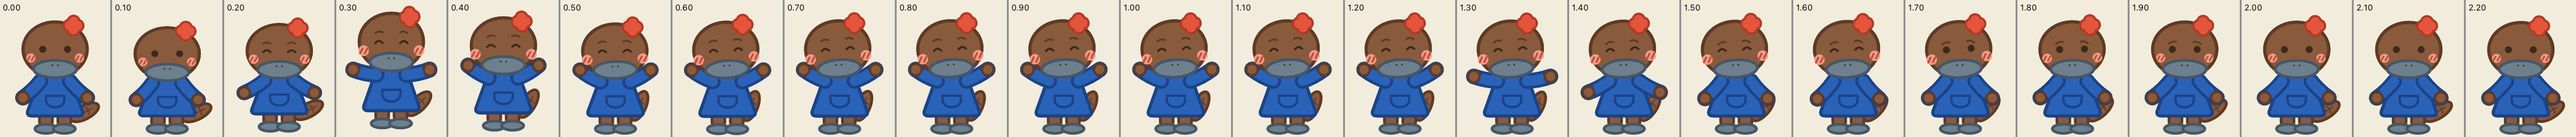
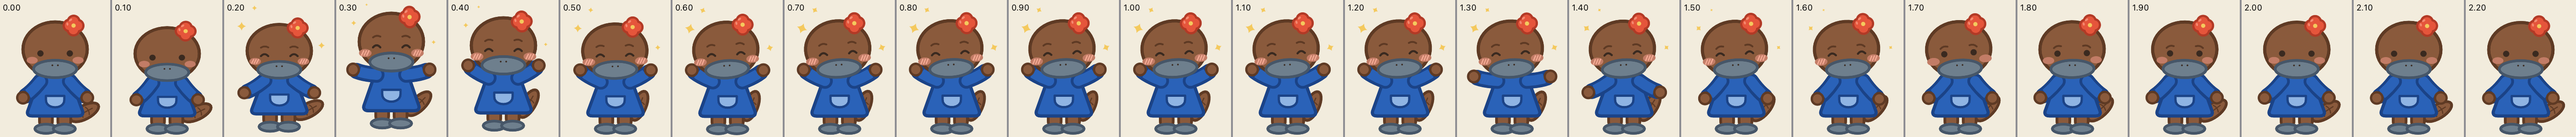
Soft oval cheeks; expressions borrowed from comics
- Her cheeks are a soft oval flush with no marks, set a little lower
  to clear her eyes.
- The old cheek marks are now something she does: they show when she
  is pleased (a nod, proud).
- Eyes squeezed shut, > <, at the top of a hop and in her stretch.
- Things in the air round her: sparkles that pop for proud and
  celebrate, and Zs that drift while she sleeps.

diff --git a/app/Puggle/App/PuggleApp.swift b/app/Puggle/App/PuggleApp.swift
@@ -156,6 +156,7 @@ struct RootView: View {
                     SceneGalleryView.writeStrip(move: "proud", seconds: 2.2, every: 0.1, name: "strip-proud.png")
                     SceneGalleryView.writeStrip(move: "celebrate", seconds: 2.2, every: 0.1, name: "strip-celebrate.png")
                     SceneGalleryView.writeStrip(move: "wake", seconds: 1.6, every: 0.1, name: "strip-wake.png")
+                    SceneGalleryView.writeStrip(move: "asleep", seconds: 0.25, every: 0.1, name: "strip-asleep.png")
                     SceneGalleryView.writeSheet(pull: 0, name: "scenes.png")
                     SceneGalleryView.writeSheet(pull: 220, name: "scenes-pulled.png")
                 }

diff --git a/app/Puggle/Design/Rig.swift b/app/Puggle/Design/Rig.swift
@@ -397,6 +397,10 @@ final class RigRuntime {
         if asleep {
             showing["eyes"] = "closed"
             showing["brows"] = "on"
+            // Zs drift up beside her, slowly.
+            showing["air"] = "zzz"
+            change("zed-a") { $0.y = -4 * sin(t * 2 * .pi / 5); $0.r = 6 * sin(t * 2 * .pi / 5) }
+            change("zed-b") { $0.y = -6 * sin(t * 2 * .pi / 5 - 0.9); $0.r = -8 * sin(t * 2 * .pi / 5 - 0.9) }
             change("brow-left") { $0.y = 1; $0.r = -14 }
             change("brow-right") { $0.y = 1; $0.r = 14 }
         }

diff --git a/app/Puggle/Features/Family/SceneGallery.swift b/app/Puggle/Features/Family/SceneGallery.swift
@@ -93,6 +93,7 @@ struct SceneGalleryView: View {
         let runtime = RigRuntime(rig: rig)
         let start = Date.now
         _ = runtime.advance(to: start)
+        if move == "asleep" { runtime.asleep = true }
         if let move { runtime.play(move, at: start) }
         if move == "greet" || move == "nod" { runtime.play("wag", at: start) }
         var frames: [(Double, [String: PartState], [String: String])] = []
